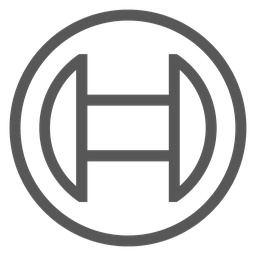
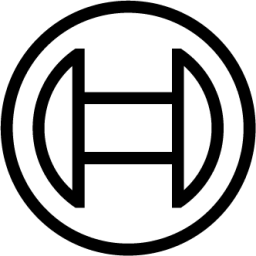
Place signals on the part they report on
Every /signals entity sat on the gateway, so VENTILATION.FrostProt.PreHeatPower
was filed next to the WiFi diagnostics. The ids name their subject: SRC is the
heat generator, SC.HC1 the first heating circuit, SC.DHW1 hot water,
VENTILATION the ventilation unit, GWEEBUS the bus. Only numbered segments count
as a circuit, so SRC.CUHP.DHW.ExternBlocked stays with the heat pump whose
hot-water block it is, rather than moving to the hot water circuit.

Also stop passing a module id off as a model. ModuleHwIdentStr is the hardware
id of a module (MV200), not the name of the product it sits in -- that unit is
sold as a Vent 5000 C, and under Buderus as something else again. Only a
ProductName is shown as the model now; the id goes to model_id, which is what
it is.

Brand assets are now the official Bosch images from home-assistant/brands
(core_brands/bosch), which bosch_alarm ships byte-identically. They include the
dark variants the rendered ones never had, and Home Assistant reads all eight
straight out of the integration folder.

Claude-Session: https://claude.ai/code/session_013sVyvdZ1tTaWLoKbk8X5bd

diff --git a/custom_components/bosch_k40rf/devices.py b/custom_components/bosch_k40rf/devices.py
@@ -20,6 +20,7 @@ from __future__ import annotations
 
 from collections.abc import Mapping
 from dataclasses import dataclass
+import re
 from string import ascii_letters
 
 from pyk40rf import Installation, Resource, StringResource, SystemInfo, SystemInfoModule
@@ -65,6 +66,26 @@ _FAMILIES: dict[str, _Family] = {
 #: Suffix of the translation key used when a branch has more than one id.
 _NUMBERED = "_numbered"
 
+#: Leading segment of a /signals id -> the branch it reports on. What is left
+#: (SC for the system controller, GWEEBUS for the bus) belongs to the gateway.
+_SIGNAL_BRANCHES: dict[str, str] = {
+    "SRC": "heatSources",
+    "VENTILATION": "ventilation",
+}
+
+#: A segment of a /signals id that names a circuit: SC.HC1.FlowTempSetp is the
+#: first heating circuit's, SRC.CUHP.HP1.ReturnTemp the first heat source's.
+#: Bare words never match -- SRC.CUHP.DHW.ExternBlocked is the heat pump's own
+#: hot-water block, not the hot water circuit's.
+_SIGNAL_CIRCUITS: dict[str, tuple[str, str]] = {
+    "HC": ("heatingCircuits", "hc"),
+    "DHW": ("dhwCircuits", "dhw"),
+    "HP": ("heatSources", "hs"),
+    "VENT": ("ventilation", "zone"),
+}
+
+_SIGNAL_CIRCUIT_SEGMENT = re.compile(rf"^({'|'.join(_SIGNAL_CIRCUITS)})(\d+)$")
+
 
 @dataclass(frozen=True, slots=True)
 class DeviceTree:
@@ -99,6 +120,29 @@ class DeviceTree:
     def for_candidate(self, candidate: ResourceCandidate) -> DeviceInfo:
         """Return the device an expanded catalogue entry belongs on."""
         return self.for_resource(candidate.path, candidate.circuit_id)
+
+    def for_signal(self, path: str) -> DeviceInfo:
+        """Return the device a /signals reading belongs on.
+
+        Signals are raw controller variables, and unlike the catalogue they
+        carry no path structure -- but their names do: VENTILATION.FrostProt
+        .PreHeatPower is the ventilation unit's, SC.HC1.FlowTempSetp the first
+        heating circuit's. Whatever cannot be placed stays on the gateway.
+        """
+        segments = path.rsplit("/", 1)[-1].split(".")
+        for segment in segments:
+            if match := _SIGNAL_CIRCUIT_SEGMENT.match(segment):
+                branch, prefix = _SIGNAL_CIRCUITS[match.group(1)]
+                device = self.branches.get((branch, f"{prefix}{match.group(2)}"))
+                if device is not None:
+                    return device
+        if (reported_on := _SIGNAL_BRANCHES.get(segments[0])) is not None:
+            # An unnumbered signal belongs to the branch's device where there
+            # is only one of it; with a cascade it names none of them.
+            devices = [device for (name, _), device in self.branches.items() if name == reported_on]
+            if len(devices) == 1:
+                return devices[0]
+        return self.hub
 
 
 def build_hub(gateway_id: str, system_info: SystemInfo, firmware: str | None = None) -> DeviceInfo:
@@ -166,7 +210,11 @@ def _subdevice(
     device = DeviceInfo(
         identifiers={(DOMAIN, f"{gateway_id}_{branch.lower()}_{circuit_id}")},
         manufacturer=MANUFACTURER,
-        model=(module.name or module.hardware_id) if module else None,
+        # ModuleHwIdentStr is a module id (MV200, XCU_THH), not a product name:
+        # the unit it sits in is sold as a Vent 5000 C. Only a ProductName may
+        # be shown as the model; the rest is what it is, a model id.
+        model=module.name if module else None,
+        model_id=module.hardware_id if module else None,
         serial_number=module.serial_number if module else None,
         sw_version=module.version if module else None,
         via_device_id=hub_device_id,

diff --git a/tests/test_devices.py b/tests/test_devices.py
@@ -103,8 +103,79 @@ def test_the_ventilation_module_is_recognised(
     device = tree(system_info, installation).for_resource(
         "/ventilation/zone1/supplyFanPower", "zone1"
     )
-    assert device["model"] == "MV200"
     assert device["sw_version"] == "53.03"
+
+
+def test_a_module_id_is_not_passed_off_as_a_model(
+    system_info: SystemInfo, installation: Installation
+) -> None:
+    """MV200 is the module inside the unit; the unit is sold as a Vent 5000 C."""
+    device = tree(system_info, installation).for_resource(
+        "/ventilation/zone1/supplyFanPower", "zone1"
+    )
+    assert device["model_id"] == "MV200"
+    assert device["model"] is None
+
+
+def test_a_product_name_is_shown_as_the_model(
+    system_info: SystemInfo, installation: Installation
+) -> None:
+    """The appliance does name itself, so that name is a model, not an id."""
+    device = tree(system_info, installation).for_resource("/heatSources/hs1/workingTime", "hs1")
+    assert device["model"] == "Compress CS5800iAW 12 MB"
+    assert device["model_id"] == "XCU_THH"
+
+
+@pytest.mark.parametrize(
+    ("signal", "expected"),
+    [
+        # Real signal ids from the test installation.
+        ("VENTILATION.FrostProt.PreHeatPower", "ventilation"),
+        ("VENTILATION.BasicFunction.VENT1.SupFanLevel", "ventilation"),
+        ("SC.HC1.FlowTempSetp", "heatingCircuits"),
+        ("SC.HC1.RTSD.CurrentRoomTempSetp", "heatingCircuits"),
+        ("SC.DHW1.SD.ExtraActive", "dhwCircuits"),
+        ("SRC.CUHP.HP1.CompressorSpeedActual", "heatSources"),
+        ("SRC.OutdoorTemp", "heatSources"),
+        # The heat pump's own hot-water block, not the hot water circuit's.
+        ("SRC.CUHP.DHW.ExternBlocked", "heatSources"),
+        # Likewise: the heat pump drives the circuit pump, and says so.
+        ("SRC.CUHP.CH.HC1PumpRelay", "heatSources"),
+        # The system controller and the bus have no device of their own.
+        ("SC.SeasonOpt.Mode", None),
+        ("SC.DampOutdTemp", None),
+        ("GWEEBUS.Status", None),
+    ],
+)
+def test_a_signal_joins_the_device_its_name_points_at(
+    system_info: SystemInfo, installation: Installation, signal: str, expected: str | None
+) -> None:
+    devices = tree(system_info, installation)
+    target = devices.for_signal(f"/signals/{signal}")
+    if expected is None:
+        assert target == devices.hub
+    else:
+        circuit = {"heatSources": "hs1", "heatingCircuits": "hc1"}.get(
+            expected, {"dhwCircuits": "dhw1", "ventilation": "zone1"}.get(expected, "")
+        )
+        assert target == devices.for_resource(f"/{expected}/{circuit}/x", circuit)
+
+
+def test_a_cascade_leaves_an_unnumbered_signal_on_the_gateway(system_info: SystemInfo) -> None:
+    """SRC.OutdoorTemp names no heat source, so with several it names none."""
+    devices = tree(system_info, Installation(heat_sources=("hs1", "hs2")))
+    assert devices.for_signal("/signals/SRC.OutdoorTemp") == devices.hub
+    # A numbered one still lands where it says.
+    assert devices.for_signal("/signals/SRC.CUHP.HP2.ReturnTemp") == devices.for_resource(
+        "/heatSources/hs2/workingTime", "hs2"
+    )
+
+
+def test_a_signal_for_a_circuit_this_house_lacks_stays_on_the_gateway(
+    system_info: SystemInfo, installation: Installation
+) -> None:
+    devices = tree(system_info, installation)
+    assert devices.for_signal("/signals/SC.HC4.FlowTempSetp") == devices.hub
 
 
 @pytest.mark.parametrize(

diff --git a/custom_components/bosch_k40rf/sensor.py b/custom_components/bosch_k40rf/sensor.py
@@ -43,9 +43,7 @@ async def async_setup_entry(
     """Set up the sensors that this gateway actually has."""
     runtime = entry.runtime_data
     entities: list[SensorEntity] = list(_build_resource_sensors(runtime, runtime.devices))
-    # Signals are raw bus diagnostics with no circuit of their own; they stay
-    # on the gateway.
-    entities.extend(_build_signal_sensors(runtime, runtime.devices.hub))
+    entities.extend(_build_signal_sensors(runtime, runtime.devices))
     async_add_entities(entities)
 
 
@@ -84,13 +82,12 @@ def _build_resource_sensors(runtime: K40RuntimeData, devices: DeviceTree) -> Ite
         )
 
 
-def _build_signal_sensors(
-    runtime: K40RuntimeData, device_info: DeviceInfo
-) -> Iterable[SensorEntity]:
+def _build_signal_sensors(runtime: K40RuntimeData, devices: DeviceTree) -> Iterable[SensorEntity]:
     """Create the diagnostic signal entities, all disabled by default."""
     coordinator = runtime.signal_coordinator
     gateway_id = runtime.gateway_id
     for path in coordinator.paths:
+        device_info = devices.for_signal(path)
         resource = (coordinator.data or {}).get(path)
         name = path.rsplit("/", 1)[-1]
         description = SensorEntityDescription(

diff --git a/tests/test_sensor.py b/tests/test_sensor.py
@@ -18,7 +18,7 @@ from .test_init import setup_entry
 #: Readings of the heat generator now sit on its own device.
 PREFIX = "sensor.compress_cs5800iaw_12_mb"
 
-#: Signals and gateway resources stay on the hub.
+#: Gateway resources, and every signal that names no part of the plant.
 GATEWAY_PREFIX = "sensor.k_40_rf"
 
 
@@ -121,7 +121,7 @@ async def test_a_signal_enum_reports_its_label(
     await setup_entry(hass, config_entry)
 
     registry = er.async_get(hass)
-    entry = registry.async_get(f"{GATEWAY_PREFIX}_src_outdoortemp")
+    entry = registry.async_get(f"{PREFIX}_src_outdoortemp")
     assert entry is not None
     # Diagnostic signals are off until the user asks for them.
     assert entry.disabled_by is er.RegistryEntryDisabler.INTEGRATION

diff --git a/tests/test_init.py b/tests/test_init.py
@@ -119,7 +119,10 @@ async def test_readings_land_on_the_device_they_describe(
         "Compress CS5800iAW 12 MB"
     )
     assert device_of("sensor.k_40_rf_firmware_version") == "K 40 RF"
-    assert device_of("sensor.k_40_rf_src_outdoortemp") == "K 40 RF"
+    # A signal names the part it reports on, and SRC is the heat generator.
+    assert device_of("sensor.compress_cs5800iaw_12_mb_src_outdoortemp") == (
+        "Compress CS5800iAW 12 MB"
+    )
 
 
 async def test_an_unreachable_gateway_is_retried_not_failed(
